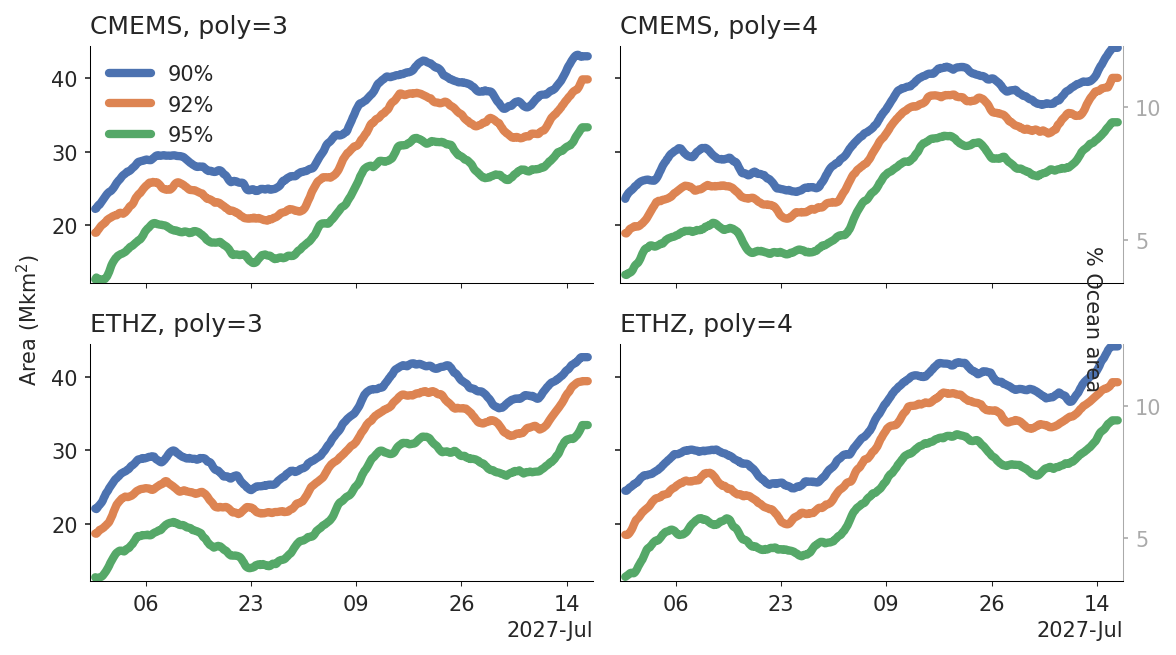
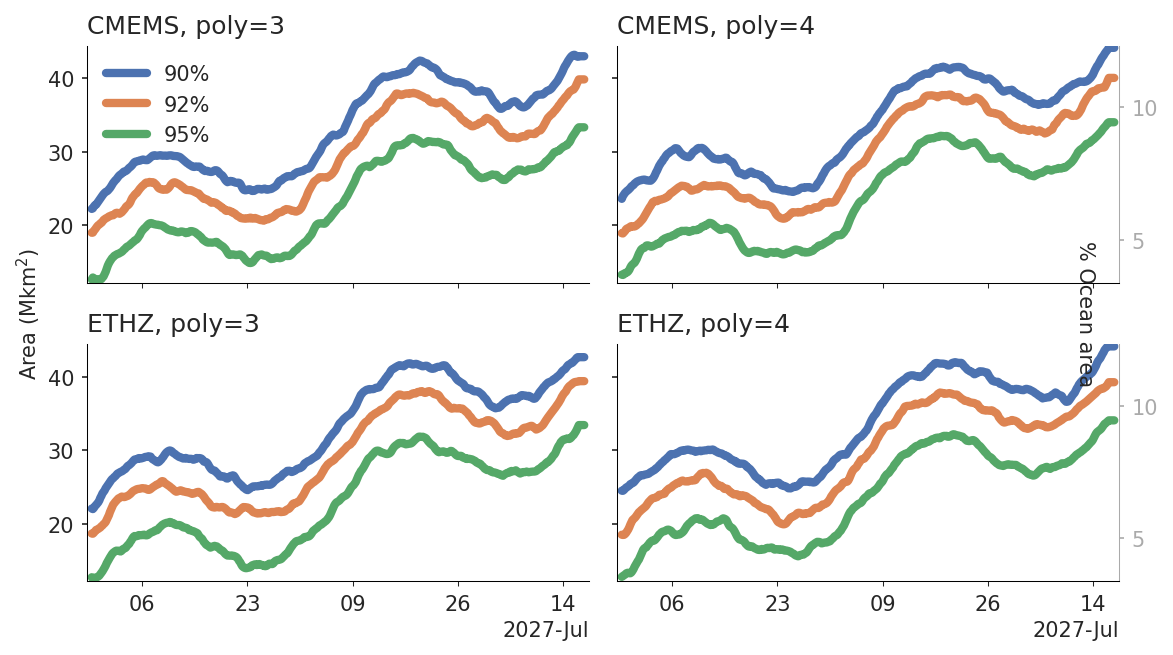
Move tight_layout before set_fig_ylabel to fix label position
https://claude.ai/code/session_01TEZR4QZgUQN7VrU95uuaPx

diff --git a/scripts/test_timeseries_plot.py b/scripts/test_timeseries_plot.py
@@ -82,9 +82,8 @@ for _ax in axs_ts[1, :]:
     _ax.xaxis.set_major_locator(plt.MaxNLocator(5))
 
 axs_ts[0, 0].legend()
+fig_ts.tight_layout()
 vis.line.set_fig_ylabel(axs_ts[:, 0].tolist(), "Area (Mkm$^2$)", x=-0.05)
 vis.line.set_fig_ylabel(axs_ts[:, 1].tolist(), "% Ocean area", x=0.97)
-
-fig_ts.tight_layout()
 fig_ts.savefig("/home/user/2025_CompoundExtremes_AGUadvances/scripts/test_output/test_timeseries_2x2.png", dpi=150, bbox_inches="tight")
 print("Saved to scripts/test_output/test_timeseries_2x2.png")

diff --git a/scripts/figures_mo.py b/scripts/figures_mo.py
@@ -1277,10 +1277,10 @@ def _(timeseries):
         _ax.xaxis.set_major_locator(plt.MaxNLocator(5))
 
     axs_ts[0, 0].legend()
+    fig_ts.tight_layout()
     vis.line.set_fig_ylabel(axs_ts[:, 0].tolist(), "Area (Mkm$^2$)", x=-0.05)
     vis.line.set_fig_ylabel(axs_ts[:, 1].tolist(), "% Ocean area", x=0.97)
 
-    fig_ts.tight_layout()
     fig_ts
     return (fig_ts,)
 